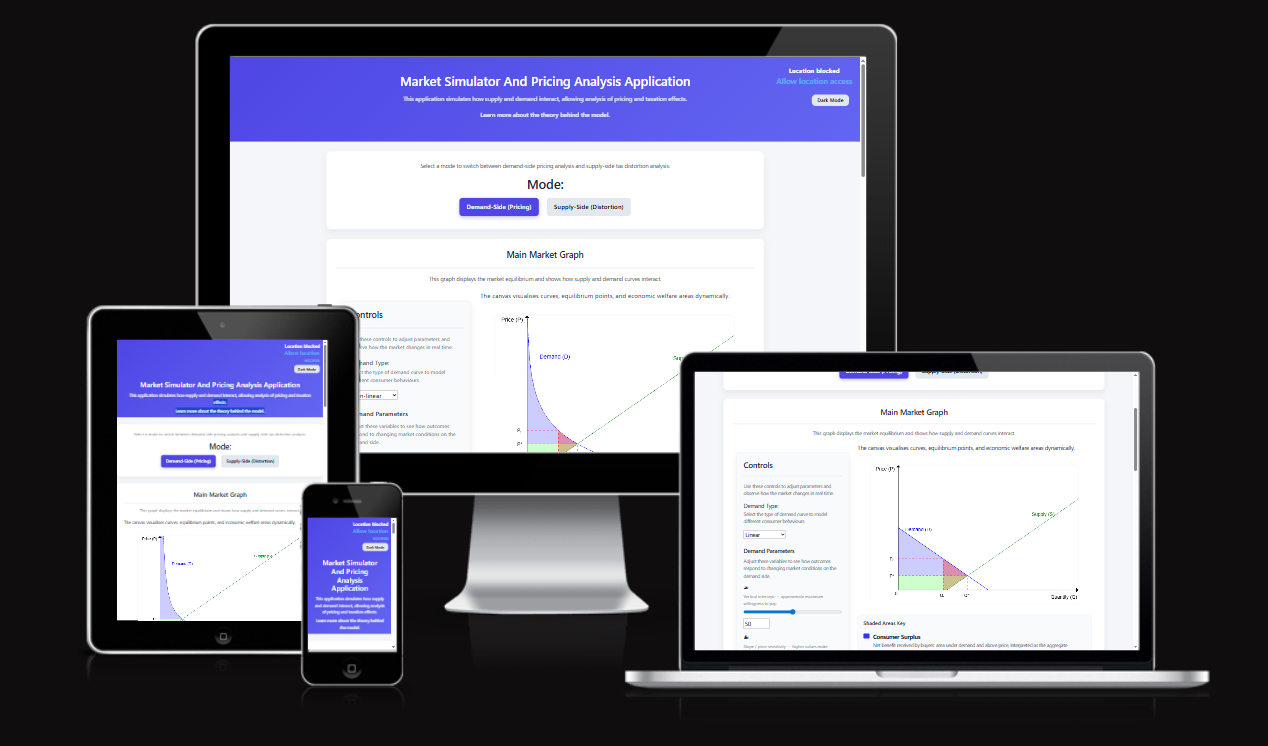
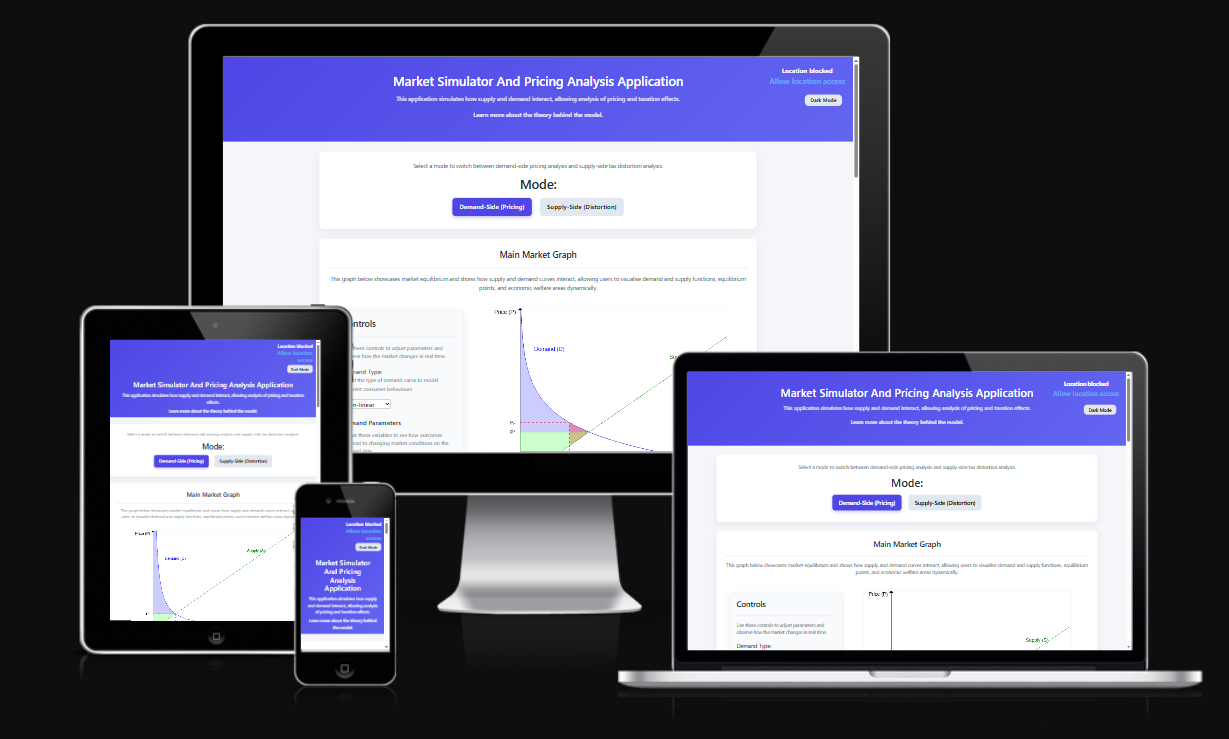
Auto-Scroll on Sliders Reimplemented

Changed region(s): [[0.0618, 0.0311, 0.9894, 0.9337], [0.3092, 0.0934, 0.5566, 0.1556]]

diff --git a/assets/js/script.js b/assets/js/script.js
@@ -211,9 +211,9 @@ for (let slider of sliders) {
     });
 
     // when user finishes adjusting (releases the slider), scroll to the graph
-   /* slider.addEventListener('change', () => {
+   slider.addEventListener('change', () => {
         mainSection.scrollIntoView({ behavior: 'smooth' });
-    });*/
+    })
 }
 
 demandType.addEventListener("change", (e) => {